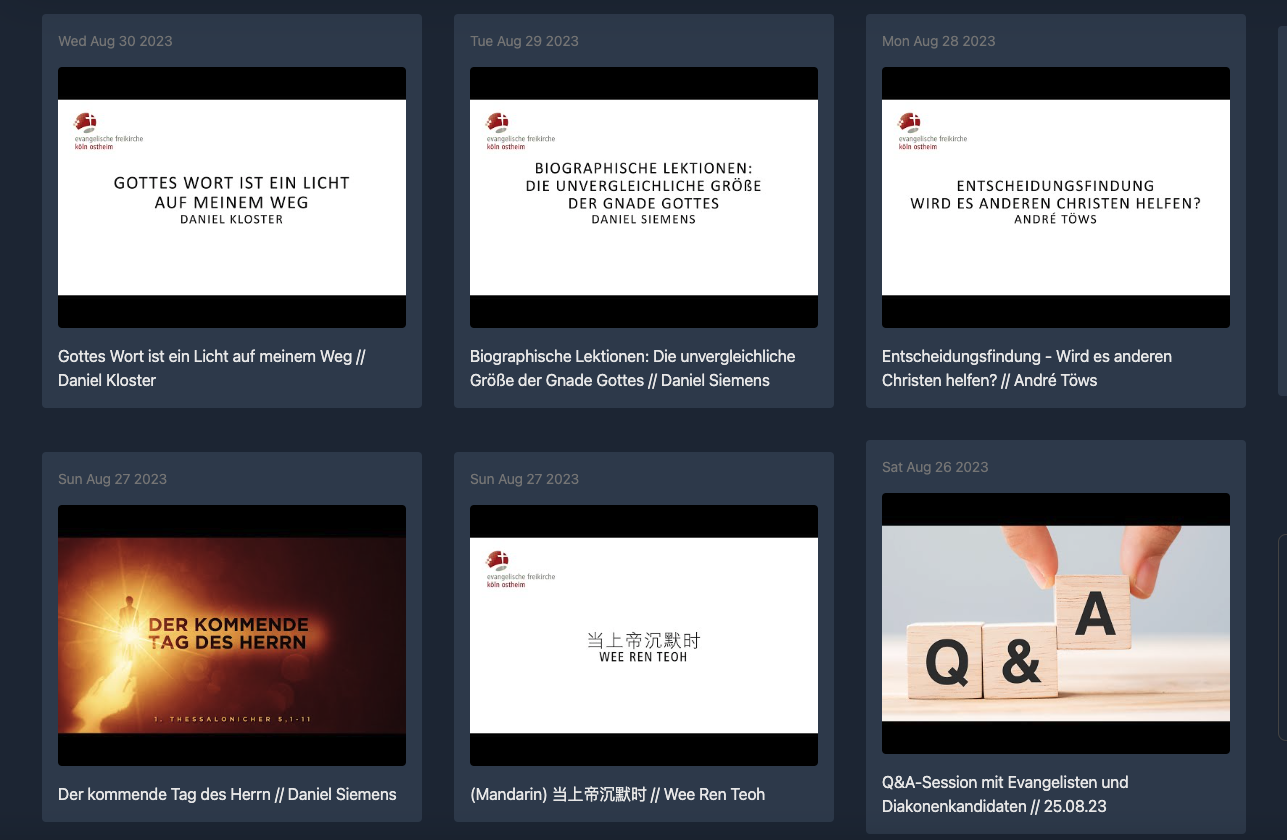
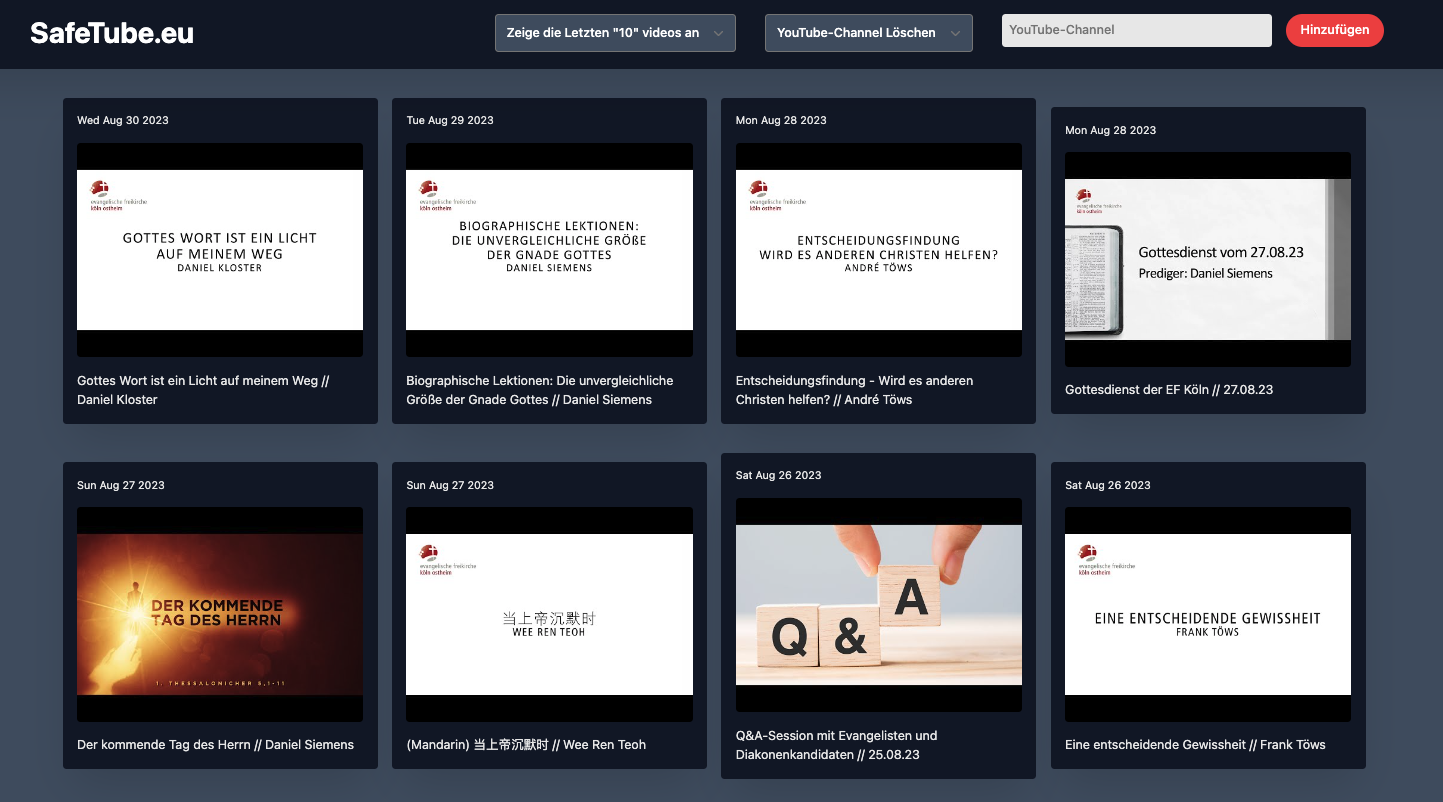
fix

diff --git a/components/hero.tsx b/components/hero.tsx
@@ -43,9 +43,8 @@ export default function Hero() {
                 Ablenkung
               </span> ansehen
             </h1>
-            <p className="text-md text-left text-white mt-10 mb-10 mr-10" data-aos="fade-right" data-aos-delay="200">
-              <strong>Einfach</strong> und <strong>Kostenlos</strong>. Fügen Sie Ihre Lieblings YouTube-Kanäle hinzu und sehen Sie sich die Videos ohne Ablenkungen oder unangemessene Inhalte an.
-            </p>
+            <p className="text-sm text-left text-gray-300 mt-10 mb-10 mr-10" data-aos="fade-right" data-aos-delay="200">
+              Fügen Sie Ihre Lieblings YouTube-Kanäle hinzu und sehen Sie sich die Videos ohne Ablenkungen oder unangemessene Inhalte an. <strong>Einfach</strong>, <strong>Ohne Werbung</strong> und <strong>Kostenlos</strong>. </p>
             <div
               className="max-w-2xl sm:max-w-none sm:flex sm:justify-start md:justify-start space-y-4 sm:space-y-0 sm:space-x-4 mb-12 md:mb-0"
               data-aos="fade-up"
@@ -56,7 +55,7 @@ export default function Hero() {
           </div>
           <div className="max-w-sm mx-auto md:max-w-none md:absolute md:left-[600px] md:top-0 -mb-12 md:-mt-12 md:mb-0">
             <div className="relative -ml-3 -mr-24 md:mx-0">
-              <Image src={HeroImage} className="rounded md:max-w-none shadow-2xl shadow-red-600" width="920" height="545" alt="Credit card" data-aos="fade-up" />
+              <Image src={HeroImage} className="rounded md:max-w-none shadow-2xl shadow-red-600" width="1220" height="545" alt="Credit card" data-aos="fade-up" />
             </div>
           </div>
         </div>

diff --git a/src/pages/feed/index.jsx b/src/pages/feed/index.jsx
@@ -39,7 +39,7 @@ export default function DashboardPage() {
   if (isLoading) {
     return <>
       <Header />
-      <div className="mt-10 pt-10 text-center ">
+      <div className="mt-10 pt-10 mb-10 pb-10 text-center ">
         <Spinner />
         <p className="text-red-500">Feed wird geladen...</p>
       </div>
@@ -61,8 +61,8 @@ export default function DashboardPage() {
         <Delete />
         <Add welcome={false} />
       </Header>
-      <div className="container bg-slate-800 " style={{ overflowX: "hidden" }}>
-        <div className="grid place-items-center" style={{ overflowX: "hidden" }}>
+      <div className="container bg-slate-600 " style={{ overflowX: "hidden" }}>
+        <div className="grid place-items-center " style={{ overflowX: "hidden" }}>
           {cookiesAccepted ? <>
             {!data || !data.xmlArray.length > 0 ?
               <div className="h-auto max-w-full rounded-lg mt-10 pt-10 pb-10 mb-10">

diff --git a/lib/videoHelper.js b/lib/videoHelper.js
@@ -13,13 +13,13 @@ function createVideosHTML(data, videoDisplayAmmount) {
               .map((value, index) => {
                 return (
                   <div
-                    className="bg-slate-600 mr-4 ml-4 mt-4 mb-4 p-4 rounded shadow-2xl"
+                    className="bg-slate-900 mr-4 ml-4 mt-4 mb-4 p-4 rounded shadow-2xl z-10"
                     key={index}
-                    style={{ maxWidth: "400px" }}
+                    style={{ maxWidth: "350px" }}
                     data-aos="fade-up"
                     data-aos-delay={`${index}00`}
                   >
-                    <p className="text-xs mb-4 text-slate-900 ">
+                    <p className="text-xs mb-4 text-gray-200 ">
                       {new Date(value.published).toDateString()}
                     </p>
                     <Link href={`/feed/video/${value["yt:videoId"]}`}>

diff --git a/public/css/style.css b/public/css/style.css
@@ -1,15 +1,10 @@
 @import 'tailwindcss/base';
 @import 'tailwindcss/components';
-
-/* Additional styles */
 @import 'additional-styles/utility-patterns.css';
 @import 'additional-styles/range-slider.css';
 @import 'additional-styles/toggle-switch.css';
 @import 'additional-styles/theme.css';
-
 @import 'tailwindcss/utilities';
-
-/* Additional Tailwind directives: https://tailwindcss.com/docs/functions-and-directives/#responsive */
 @layer utilities {
     .rtl {
         direction: rtl;
@@ -17,7 +12,6 @@
 }
 :root {
     overflow-x:hidden; 
-    background-color: #374152;
 }
 
 body {

diff --git a/src/pages/feed/video/[videoID].js b/src/pages/feed/video/[videoID].js
@@ -21,14 +21,14 @@ export default function VideoDetail() {
         </li>
       </Header>
 
-      <div className="bg-slate-800 p-4">
+      <div className="bg-slate-600 p-4 pt-10 pb-10">
         <Head>
           <title> Viel Spaß beim Video! 😄 - SafeTube</title>
         </Head>
 
         <div
-          className="container mb-4 mt-4"
-          style={{ width: "1250px", margin: "0 auto" }}
+          className="container mb-4 mt-8"
+          style={{ maxWidth: "1250px", margin: "0 auto" }}
         >
           <iframe
             className="w-full aspect-video"

diff --git a/components/ui/header.tsx b/components/ui/header.tsx
@@ -8,7 +8,7 @@ export default function Header(props: any) {
   const [isOpen, setIsOpen] = useState(false)
 
   return (
-    <header className={`relative bg-slate-600 w-full z-30 ` + props.extraCSS}>
+    <header className={`relative bg-slate-900 w-full z-30 ` + props.extraCSS}>
       <div className="max-w-screen-2xl flex flex-wrap items-center justify-between mx-auto p-4">
         <Link className={`text-3xl font-bold ${titleCSS}`} href="/" aria-label="SafeTube.eu" >
           {title}

diff --git a/components/donate.tsx b/components/donate.tsx
@@ -1,5 +1,5 @@
 export default function Donate() {
-    return <div className="shadow-2xl ml-4 mt-4 mb-4 p-4 p-4 bg-white border border-gray-200 rounded-lg shadow dark:bg-slate-800 dark:border-gray-700"
+    return <div className="z-10 shadow-2xl ml-4 mt-4 mb-4 p-4 p-4 bg-white border border-gray-200 rounded-lg shadow dark:bg-slate-800 dark:border-gray-700"
         style={{ maxWidth: "320px", height: "200px" }}
         data-aos="fade-up"
         data-aos-delay={`100`}>

diff --git a/src/pages/_document.js b/src/pages/_document.js
@@ -35,7 +35,7 @@ cookieconsent.run({"notice_banner_type":"interstitial","consent_type":"express",
         ></script>
       </Head>
       <body
-        className={` font-inter antialiased tracking-tight`}
+        className={`bg-slate-900 font-sans`}
         style={{ overflowX: "hidden" }}
       >
         <div className="Simpleflex flex-col min-h-screen overflow-hidden supports-[overflow:clip]:overflow-clip">

diff --git a/components/ui/footer.tsx b/components/ui/footer.tsx
@@ -2,7 +2,7 @@ import Image from "next/image"
 import Link from "next/link"
 
 export default function Footer() {
-  return <footer className="bg-slate-900">
+  return <footer className="bg-slate-900 ">
     <div className="max-w-6xl mx-auto px-4 sm:px-6">
       <div className="grid sm:grid-cols-12 gap-8 py-8 md:py-12">
         <div className="sm:col-span-12 lg:col-span-4 order-1 lg:order-none">
